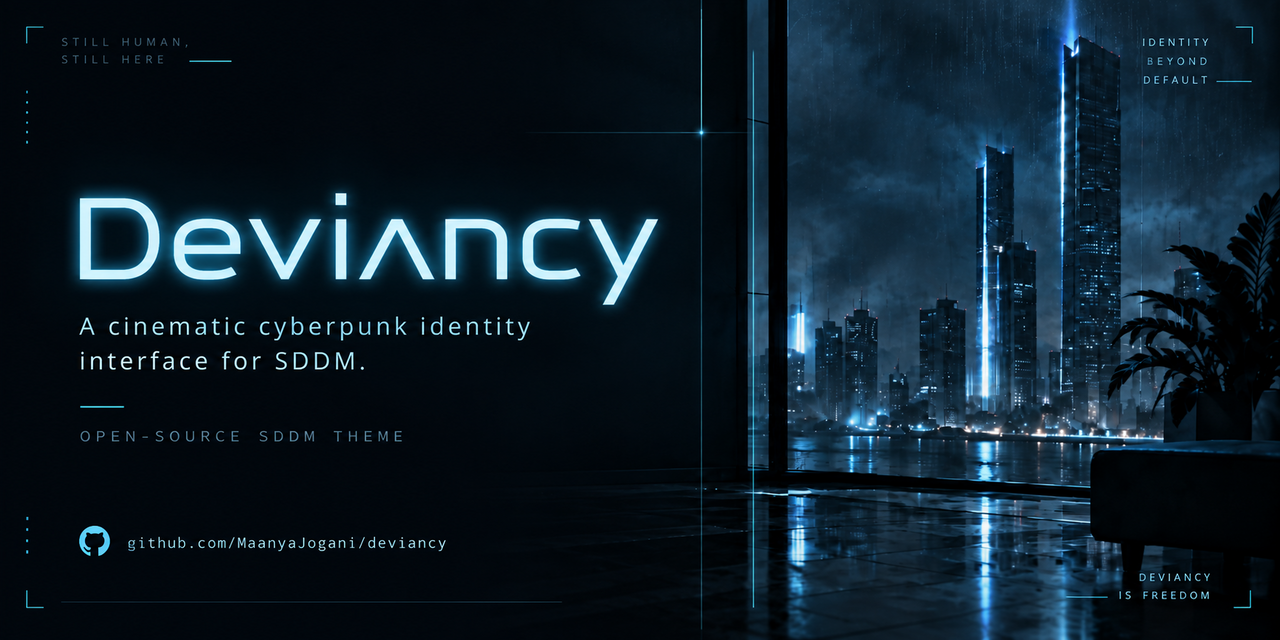
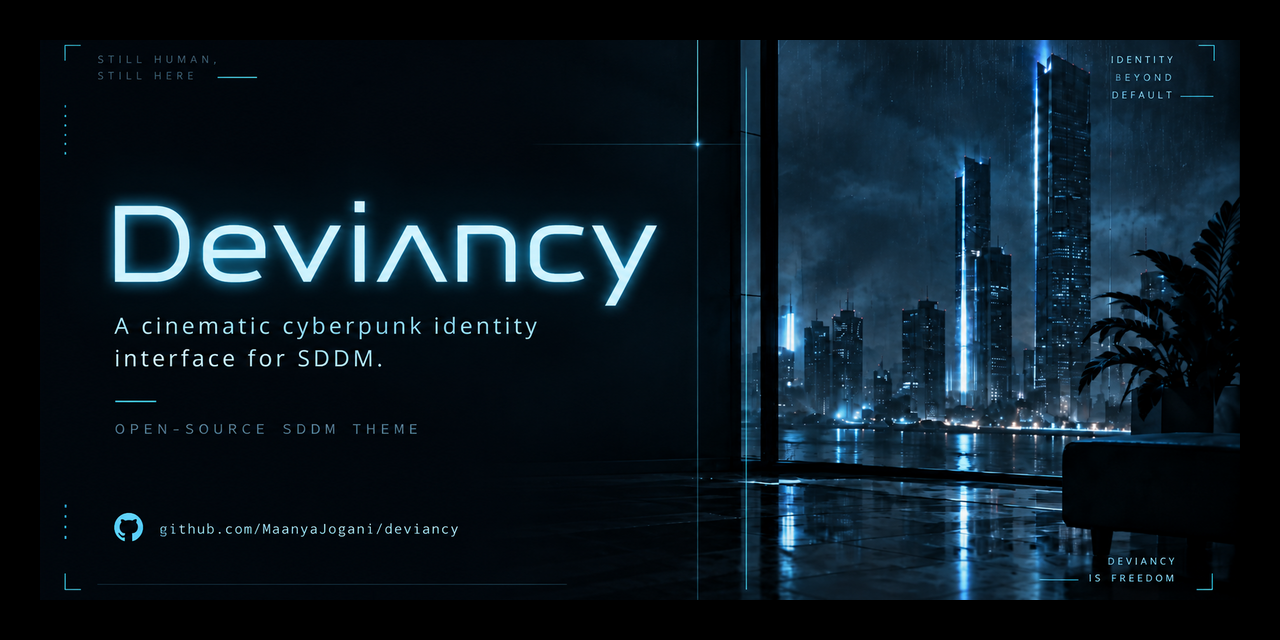
Restructure repo for SDDM theme + Plasma splash
Move the SDDM theme into sddm/ and add the skeleton for a matching
Plasma 6 splash screen (splash/). README, install paths, and test
instructions updated for the new layout.

Also: commit fonts/.gitkeep so empty dirs survive clones, and
update social-preview.png to the 40px-safe-margin version.

diff --git a/README.md b/README.md
@@ -24,7 +24,7 @@ game assets. All artwork is original.
 
 ## Preview
 
-![Deviancy idle screen](preview.png)
+![Deviancy idle screen](sddm/preview.png)
 
 ### Screenshots
 
@@ -48,6 +48,21 @@ Each state is available as both MP4 and animated GIF in `Previews/clips/`.
 | Switching profiles | ![Switching](Previews/clips/4-switching-profiles.gif) |
 | Successful authentication | ![Success](Previews/clips/5-successful-auth.gif) |
 
+## Plasma splash screen (in development)
+
+A matching Plasma 6 splash screen lives in `splash/` — a Look-and-Feel
+package that continues the Deviancy aesthetic after login (cityscape,
+scanlines, and session-authorization messaging), so the transition from
+greeter to desktop feels like one continuous sequence.
+
+Once complete it will install to:
+
+```bash
+cp -r splash ~/.local/share/plasma/look-and-feel/deviancy-splash
+```
+
+and be selectable under System Settings → Appearance → Splash Screen.
+
 ## Requirements
 
 - SDDM >= 0.19 (Theme-API 2.0)
@@ -57,8 +72,12 @@ Each state is available as both MP4 and animated GIF in `Previews/clips/`.
 ## Install
 
 ```bash
-# Copy the theme into the system themes directory
-sudo cp -r deviancy /usr/share/sddm/themes/deviancy
+# Copy the SDDM theme into the system themes directory
+# (clone the repo first, then run this from inside the repo)
+sudo cp -r sddm /usr/share/sddm/themes/deviancy
+
+# To update an already-installed copy instead:
+sudo cp -rT sddm /usr/share/sddm/themes/deviancy
 
 # Activate it
 sudo tee /etc/sddm.conf.d/theme.conf << 'EOF'
@@ -79,46 +98,56 @@ Restart SDDM to apply (this logs you out):
 sudo systemctl restart sddm
 ```
 
+### Previewing without installing
+
+```bash
+sddm-greeter --test-mode --theme ./sddm
+```
+
 ## File layout
 
 ```
 deviancy/
-├── Main.qml              Entry point — state machine, user data, wiring
-├── metadata.desktop      SDDM theme metadata
 ├── README.md
 ├── LICENSE
-├── preview.png           Screenshot for KDE Store / Pling / SDDM preview
+├── social-preview.png    Social card image for link sharing
 │
-├── assets/
-│   └── background.png     Full-bleed cityscape
+├── sddm/                 SDDM login theme
+│   ├── Main.qml              Entry point — state machine, user data, wiring
+│   ├── metadata.desktop      SDDM theme metadata
+│   ├── preview.png           Screenshot for KDE Store / Pling / SDDM preview
+│   ├── assets/
+│   │   └── background.png    Full-bleed cityscape
+│   ├── components/
+│   │   ├── Background.qml       Cityscape + dark gradient panel
+│   │   ├── HudDecor.qml         Static HUD elements (brackets, dots, taglines)
+│   │   ├── ScanlineOverlay.qml  Horizontal + vertical scanlines, intersection dot
+│   │   ├── ClockPanel.qml       Self-contained clock with flicker()
+│   │   ├── UserCarousel.qml     Prev/current/next user display
+│   │   ├── PasswordField.qml    Cell-based password entry
+│   │   └── AuthenticateButton.qml  Collapsing/progress-fill button
+│   └── fonts/                (reserved for bundled fonts)
 │
-├── components/
-│   ├── Background.qml     Cityscape + dark gradient panel
-│   ├── HudDecor.qml       Static HUD elements (brackets, dots, taglines)
-│   ├── ScanlineOverlay.qml  Horizontal + vertical scanlines, intersection dot
-│   ├── ClockPanel.qml     Self-contained clock with flicker()
-│   ├── UserCarousel.qml   Prev/current/next user display
-│   ├── PasswordField.qml  Cell-based password entry
-│   └── AuthenticateButton.qml  Collapsing/progress-fill button
+├── splash/               Plasma 6 splash screen (work in progress)
+│   ├── metadata.desktop      Look-and-Feel package metadata
+│   └── contents/splash/      Splash.qml lives here (once designed)
 │
-├── Previews/
-│   ├── 01-idle.png
-│   ├── 02-typing.png
-│   ├── 03-auth-success.png
-│   ├── 04-auth-fail.png
-│   └── clips/             MP4 + GIF clips of each auth state
-│
-└── fonts/                (reserved for bundled fonts)
+└── Previews/
+    ├── 01-idle.png
+    ├── 02-typing.png
+    ├── 03-auth-success.png
+    ├── 04-auth-fail.png
+    └── clips/             MP4 + GIF clips of each auth state
 ```
 
 ## Customizing
 
-- **Background**: replace `assets/background.png`. Any resolution; the image
+- **Background**: replace `sddm/assets/background.png`. Any resolution; the image
   is cropped to fill the screen with `PreserveAspectCrop`.
 - **Accent color**: edit the `cyan` / `cyanSoft` properties near the top of
-  `Main.qml`. They propagate to all components via bindings.
-- **Taglines**: edit `HudDecor.qml` — `STILL HUMAN, STILL HERE` (bottom-left)
-  and `DEVIANCY IS FREEDOM` (bottom-right).
+  `sddm/Main.qml`. They propagate to all components via bindings.
+- **Taglines**: edit `sddm/components/HudDecor.qml` — `STILL HUMAN, STILL HERE`
+  (bottom-left) and `DEVIANCY IS FREEDOM` (bottom-right).
 
 ## License
 
